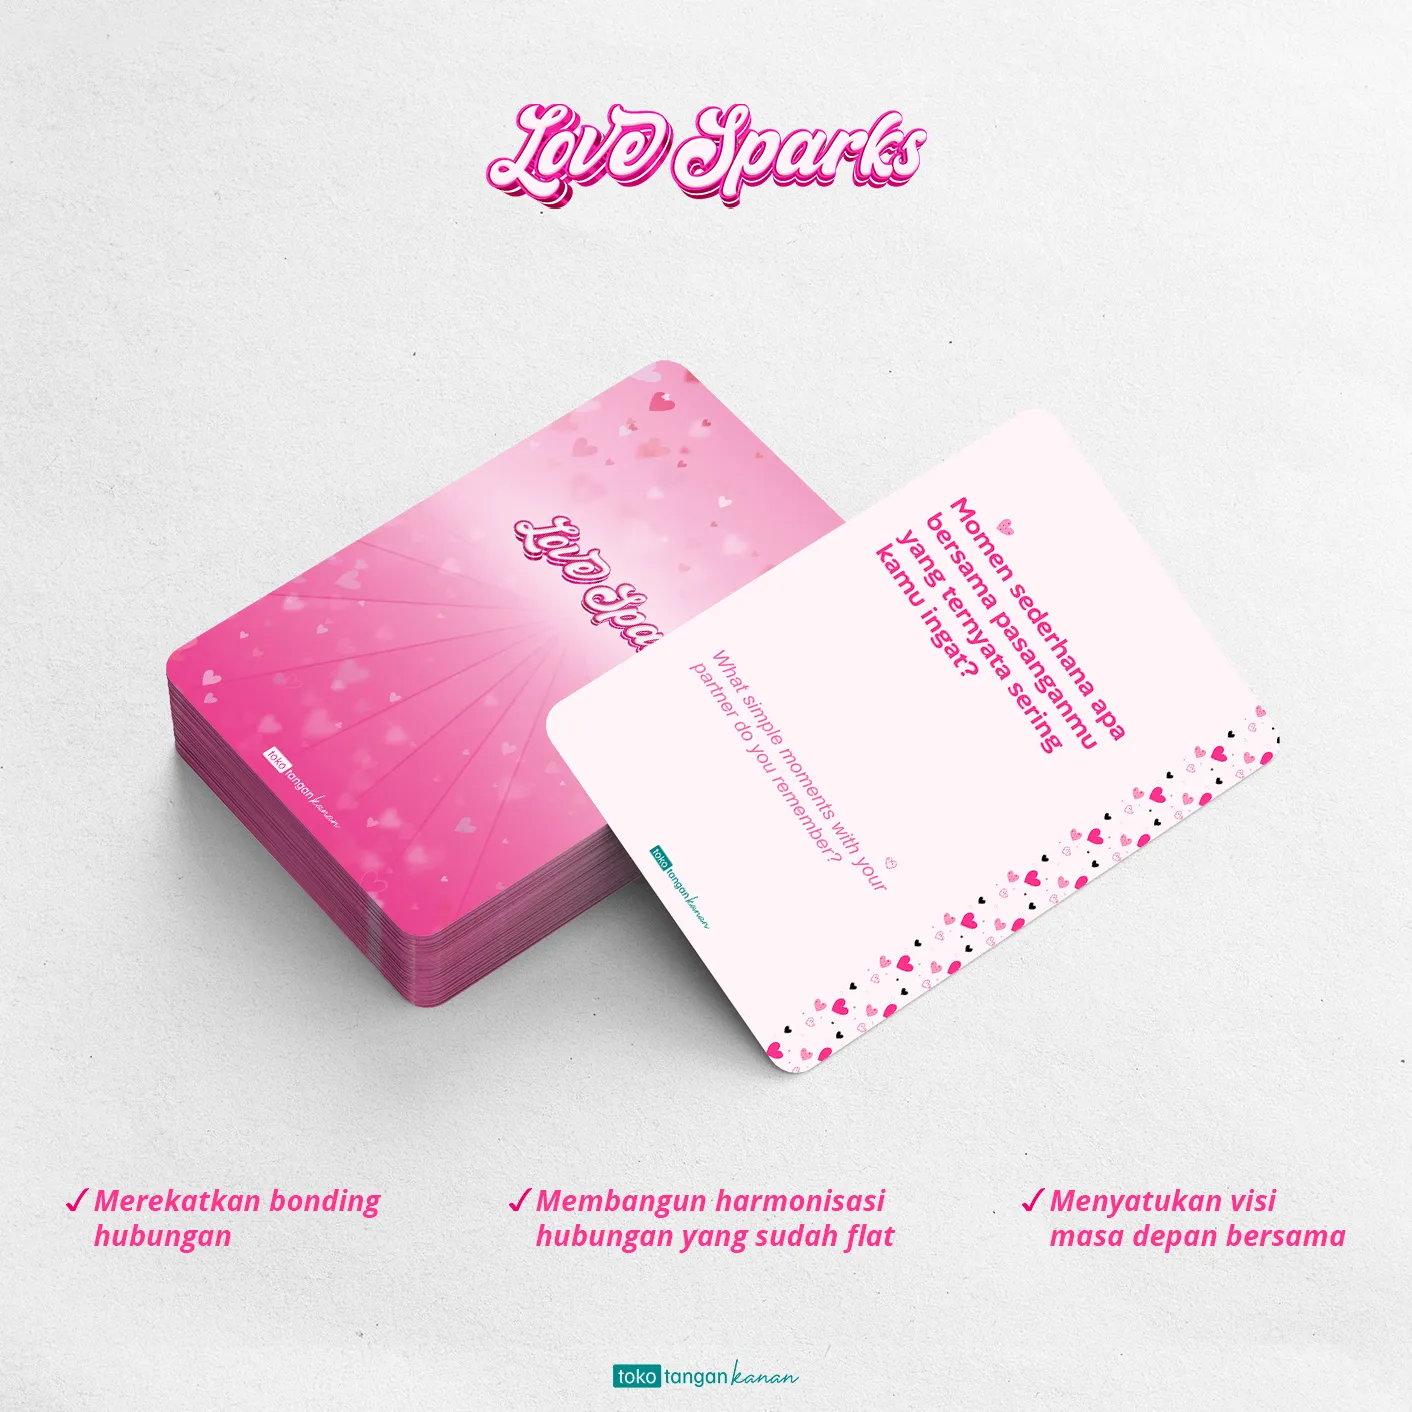
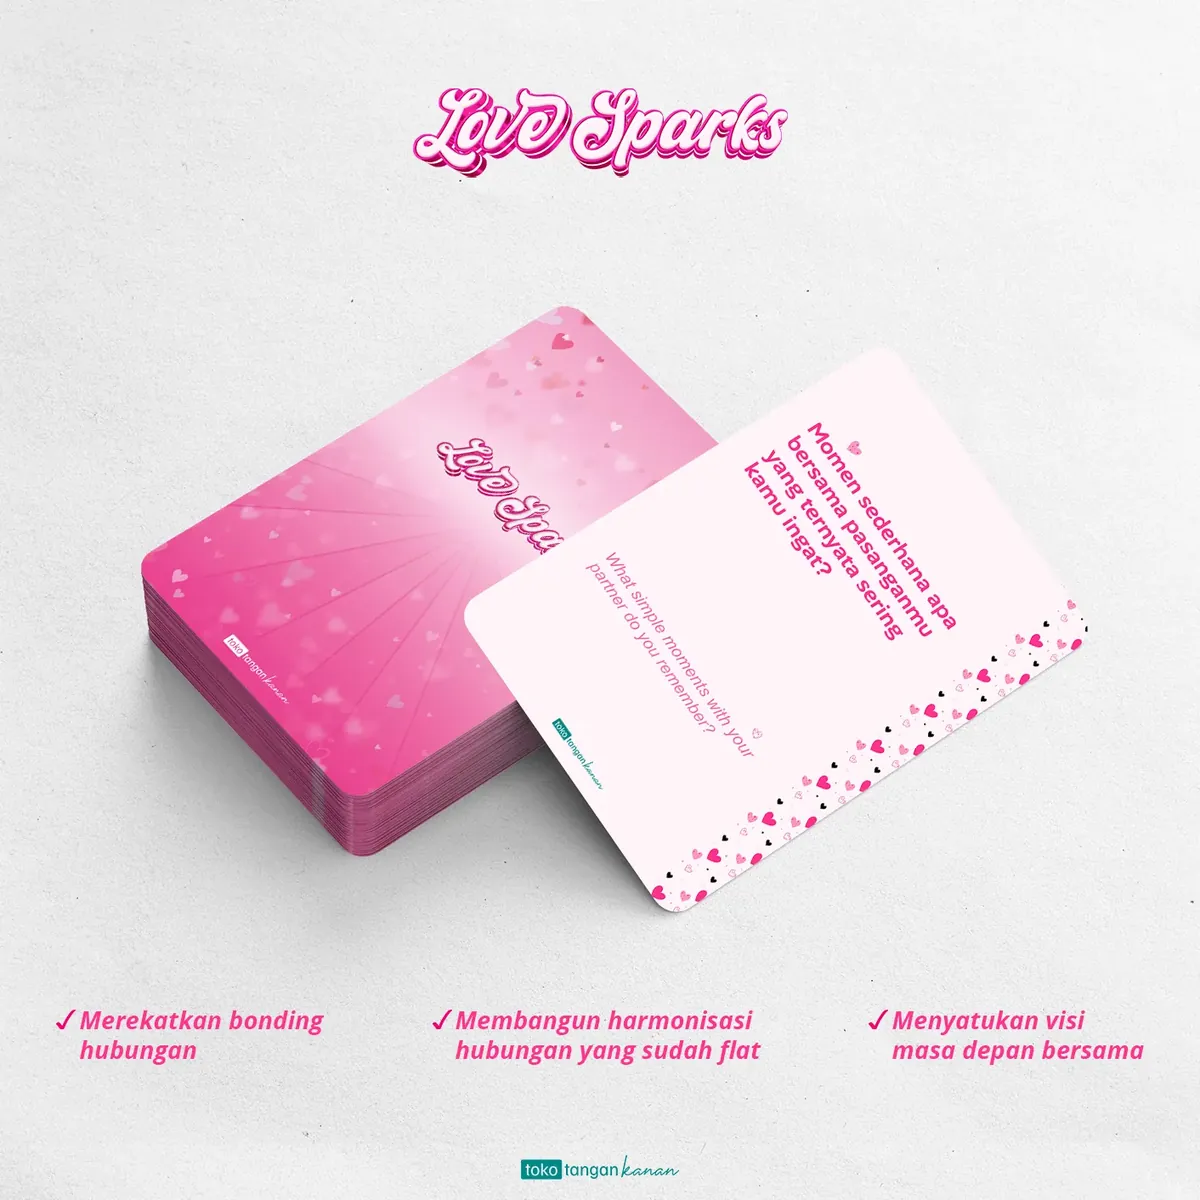
perf: Love Sparks: convert gallery images to webp, resize to 1200px
Claude-Session: https://claude.ai/code/session_014zQV38Q7kaD1Q5iozDkFmv

diff --git a/composables/cards/decks_lp.ts b/composables/cards/decks_lp.ts
@@ -536,15 +536,15 @@ export const useDecksLP = {
                 alt: "Kemasan kartu Love Sparks beserta contoh kartu pertanyaan - permainan untuk pasangan yang ingin mempererat koneksi emosional"
             },
             {
-                src: "/images/cards/love_sparks_1.jpg",
+                src: "/images/cards/love_sparks_1.webp",
                 alt: "Tiga sisi kartu Love Sparks: depan berisi pertanyaan bilingual, belakang motif hati pink, dan kartu panduan cara bermain"
             },
             {
-                src: "/images/cards/love_sparks_2.jpg",
+                src: "/images/cards/love_sparks_2.webp",
                 alt: "Playlist Spotify khusus Love Sparks di smartphone untuk menemani sesi bermain kartu pasangan dengan suasana musik yang pas"
             },
             {
-                src: "/images/cards/love_sparks_3.jpg",
+                src: "/images/cards/love_sparks_3.webp",
                 alt: "Kemasan kartu Love Sparks berwarna pink dengan contoh kartu pertanyaan – cocok untuk pasangan yang ingin mempererat koneksi emosional"
             },
             {
